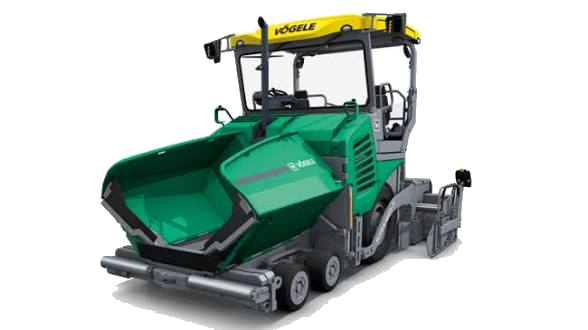
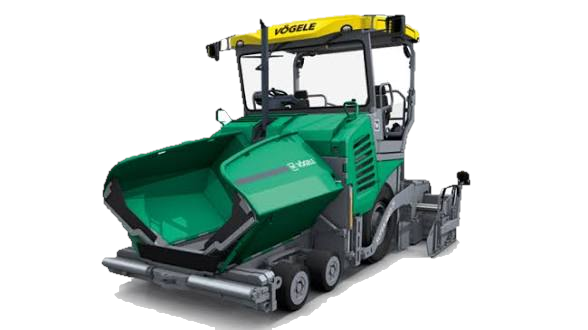
Add files via upload

diff --git a/index.html b/index.html
@@ -1,1 +1,1 @@
-<!doctype html><html lang="sv"><head><meta charset="utf-8"><meta name="viewport" content="width=device-width,initial-scale=1,viewport-fit=cover"><meta name="theme-color" content="#0b1915"><meta name="apple-mobile-web-app-capable" content="yes"><title>PaveTrack</title><link rel="apple-touch-icon" href="icon-180.png"><link rel="icon" type="image/png" href="icon-192.png"><link rel="manifest" href="manifest.webmanifest"><link rel="stylesheet" href="style.css?v=5"></head><body><div id="app"><section id="languageGate" class="language-gate"><div class="language-card"><div class="language-symbol">🌐</div><h1>PAVETRACK</h1><p>Välj språk / Choose language</p><button type="button" class="language-option" data-language="sv">🇸🇪 Svenska</button><button type="button" class="language-option" data-language="en">🇬🇧 English</button></div></section><header><div class="brand"><img class="brand-machine" src="vogele-header-transparent.png" alt="Vögele SUPER 1303 asfaltläggare"><div class="brand-copy"><strong><span class="brand-pave">PAVE</span><span class="brand-track">TRACK</span></strong><small>ASFALT <span>•</span> ARBETSLOGG <span>•</span> MASKINER <span>•</span> LAG</small></div></div><div class="header-actions"><button id="changeLanguage" type="button" class="ghost hidden" aria-label="Byt språk / Change language">🌐 <span id="languageLabel">SV</span></button><button id="logout" class="ghost hidden">Logga ut</button></div></header><main><section id="config" class="panel hidden"><h2>Förbered PaveTrack</h2><p>Firebase är ännu inte konfigurerat. Följ <b>INSTALLATION.md</b> och fyll i <b>firebase-config.js</b>.</p></section><section id="auth" class="panel hidden"><h1>Välkommen till PaveTrack</h1><p>Logga in eller skapa ett konto. Nya konton måste godkännas.</p><div class="tabs"><button id="loginTab" class="active">Logga in</button><button id="registerTab">Skapa konto</button></div><form id="authForm"><label id="nameWrap" class="hidden">Namn<input id="name" autocomplete="name"></label><div id="registerCompanyFields" class="hidden"><label>Kontotyp<select id="accountType"><option value="company">Registrera nytt företag</option><option value="join">Gå med i befintligt företag</option></select></label><div id="companyFields"><label>Företagsnamn<input id="companyName" maxlength="150"></label><label>Organisationsnummer<input id="orgNumber" maxlength="30"></label></div><div id="joinFields" class="hidden"><label>Företags-ID<input id="joinCompanyId" placeholder="Be företagets admin om ID"></label></div></div><label>E-post<input id="email" type="email" autocomplete="email" required></label><label>Lösenord<input id="password" type="password" minlength="6" autocomplete="current-password" required></label><button id="authSubmit" class="primary">Logga in</button></form><p id="authMessage" class="message"></p></section><section id="pending" class="panel hidden"><h2>Kontot väntar på godkännande</h2><p>En administratör behöver godkänna ditt konto innan du kan registrera jobb.</p><p id="pendingName"></p><button id="refreshStatus" class="secondary">Kontrollera status</button></section><section id="dashboard" class="hidden"><div class="topline"><div><small id="greeting">INLOGGAD</small><h1>Arbetsöversikt</h1></div><span id="roleBadge" class="pill"></span></div><nav id="nav"><button data-view="jobs" class="active">Jobb</button><button data-view="history">Historik</button><button data-view="stats">Statistik</button><button data-view="users" id="usersNav" class="hidden">Användare</button><button data-view="companies" id="companiesNav" class="hidden">Företag</button></nav><section id="jobsView" class="view"><div class="metrics"><div class="metric"><small>Jobb idag</small><strong id="todayCount">0</strong></div><div class="metric"><small>Använt idag</small><strong id="todayTons">0 ton</strong></div><div class="metric"><small>Överblivet idag</small><strong id="todayWaste">0 ton</strong></div></div><div class="panel"><div class="paneltitle"><h2 id="formTitle">Nytt asfaltjobb</h2><span class="pill">AUTOSPARAS I MOLNET</span></div><form id="jobForm"><input type="hidden" id="jobId"><div class="cols"><label>Datum<input id="jobDate" type="date" required></label><label>Kund / beställare<input id="customer" required maxlength="150" placeholder="Ex. PEAB"></label></div><div class="cols"><label>Littranummer <span class="optional">(valfritt)</span><input id="littra" maxlength="80" placeholder="Ex. L-1042"></label><label>Arbetsplats <span class="optional">(valfritt)</span><input id="location" maxlength="200" placeholder="Adress eller område"></label></div><div class="cols"><label>Yta (m²)<input id="area" type="number" min="0" max="10000000" step="0.01" inputmode="decimal" required></label><label>Använd asfalt (ton)<input id="used" type="number" min="0" max="100000" step="0.01" inputmode="decimal" required></label></div><label>Arbetslag <span class="optional">(valfritt)</span><select id="jobTeam"><option value="">Inget arbetslag valt</option></select></label><label>Asfalttyp <span class="optional">(valfritt)</span><input id="asphaltType" maxlength="100" placeholder="Ex. ABT 11 70/100"></label><label>Överbliven asfalt (ton)<input id="waste" type="number" min="0" max="100000" step="0.01" inputmode="decimal" required></label><label>Anteckningar <span class="optional">(valfritt)</span><textarea id="notes" maxlength="3000" rows="3" placeholder="Övrig information om jobbet"></textarea></label><div class="actions"><button type="submit" class="primary" id="saveJob">Spara jobb</button><button type="button" class="secondary hidden" id="cancelEdit">Avbryt redigering</button></div></form></div><h2>Senaste jobb</h2><div id="recentJobs" class="stack"></div></section><section id="historyView" class="view hidden"><div class="panel"><h2>Jobbhistorik</h2><div class="cols"><label>Sök kund, littra, plats, arbetslag eller person<input id="search" placeholder="Sök bland jobben"></label><label>Datum<input id="filterDate" type="date"></label></div><div class="actions"><button id="clearFilters" class="secondary">Rensa filter</button><button id="exportCsv" class="secondary">Exportera CSV (Excel)</button></div></div><div id="historyJobs" class="stack"></div></section><section id="statsView" class="view hidden"><div class="panel"><h2>Sammanställning</h2><p id="statsScope"></p><div class="metrics"><div class="metric"><small>Totalt antal jobb</small><strong id="allCount">0</strong></div><div class="metric"><small>Totalt m²</small><strong id="allArea">0</strong></div><div class="metric"><small>Använt, ton</small><strong id="allUsed">0</strong></div><div class="metric"><small>Överblivet, ton</small><strong id="allWaste">0</strong></div></div></div></section><section id="companiesView" class="view hidden"><div class="panel"><h2>Företag</h2><p>Godkänn registreringar och hantera abonnemang.</p><label class="toggle-row"><input type="checkbox" id="billingEnabled"> Kräv betalabonnemang</label><p id="billingInfo" class="message">Gratisläge är aktivt.</p><p class="message">Betalningsintegration är inte aktiverad. Aktivera inte betalningskrav innan en betalningsleverantör är ansluten.</p><div id="companiesList" class="stack"></div></div></section><section id="usersView" class="view hidden"><div class="panel"><h2>Arbetslag</h2><p>Välj ditt arbetslag. Företagets administratör kan lägga till nya lag.</p><label>Mitt arbetslag<select id="myTeam"><option value="">Inget arbetslag</option></select></label><div id="teamAdmin" class="hidden"><form id="teamForm" class="actions"><input id="newTeamName" maxlength="80" placeholder="Ex. Handlag 1" aria-label="Namn på arbetslag"><button class="secondary" type="submit">Lägg till arbetslag</button></form><div id="teamsList"></div></div></div><div class="panel"><h2>Användarhantering</h2><p>Godkänn nya konton. Superadministratören kan även utse administratörer.</p><div id="usersList" class="stack"></div></div></section></section><div id="toast" role="status" aria-live="polite"></div></main><footer>PAVETRACK • BYGGT FÖR ASFALTARBETEN</footer></div><script src="firebase-config.js"></script><script src="owner-config.js"></script><script type="module" src="app.js"></script></body></html>
+<!doctype html><html lang="sv"><head><meta charset="utf-8"><meta name="viewport" content="width=device-width,initial-scale=1,viewport-fit=cover"><meta name="theme-color" content="#0b1915"><meta name="apple-mobile-web-app-capable" content="yes"><title>PaveTrack</title><link rel="apple-touch-icon" href="icon-180.png"><link rel="icon" type="image/png" href="icon-192.png"><link rel="manifest" href="manifest.webmanifest"><link rel="stylesheet" href="style.css?v=5"></head><body><div id="app"><section id="languageGate" class="language-gate"><div class="language-card"><div class="language-symbol">🌐</div><h1>PAVETRACK</h1><p>Välj språk / Choose language</p><button type="button" class="language-option" data-language="sv">🇸🇪 Svenska</button><button type="button" class="language-option" data-language="en">🇬🇧 English</button></div></section><header><div class="brand"><img class="brand-machine" src="vogele-header-transparent.png?v=6" alt="Vögele SUPER 1303 asfaltläggare"><div class="brand-copy"><strong><span class="brand-pave">PAVE</span><span class="brand-track">TRACK</span></strong><small>ASFALT <span>•</span> ARBETSLOGG <span>•</span> MASKINER <span>•</span> LAG</small></div></div><div class="header-actions"><button id="changeLanguage" type="button" class="ghost hidden" aria-label="Byt språk / Change language">🌐 <span id="languageLabel">SV</span></button><button id="logout" class="ghost hidden">Logga ut</button></div></header><main><section id="config" class="panel hidden"><h2>Förbered PaveTrack</h2><p>Firebase är ännu inte konfigurerat. Följ <b>INSTALLATION.md</b> och fyll i <b>firebase-config.js</b>.</p></section><section id="auth" class="panel hidden"><h1>Välkommen till PaveTrack</h1><p>Logga in eller skapa ett konto. Nya konton måste godkännas.</p><div class="tabs"><button id="loginTab" class="active">Logga in</button><button id="registerTab">Skapa konto</button></div><form id="authForm"><label id="nameWrap" class="hidden">Namn<input id="name" autocomplete="name"></label><div id="registerCompanyFields" class="hidden"><label>Kontotyp<select id="accountType"><option value="company">Registrera nytt företag</option><option value="join">Gå med i befintligt företag</option></select></label><div id="companyFields"><label>Företagsnamn<input id="companyName" maxlength="150"></label><label>Organisationsnummer<input id="orgNumber" maxlength="30"></label></div><div id="joinFields" class="hidden"><label>Företags-ID<input id="joinCompanyId" placeholder="Be företagets admin om ID"></label></div></div><label>E-post<input id="email" type="email" autocomplete="email" required></label><label>Lösenord<input id="password" type="password" minlength="6" autocomplete="current-password" required></label><button id="authSubmit" class="primary">Logga in</button></form><p id="authMessage" class="message"></p></section><section id="pending" class="panel hidden"><h2>Kontot väntar på godkännande</h2><p>En administratör behöver godkänna ditt konto innan du kan registrera jobb.</p><p id="pendingName"></p><button id="refreshStatus" class="secondary">Kontrollera status</button></section><section id="dashboard" class="hidden"><div class="topline"><div><small id="greeting">INLOGGAD</small><h1>Arbetsöversikt</h1></div><span id="roleBadge" class="pill"></span></div><nav id="nav"><button data-view="jobs" class="active">Jobb</button><button data-view="history">Historik</button><button data-view="stats">Statistik</button><button data-view="users" id="usersNav" class="hidden">Användare</button><button data-view="companies" id="companiesNav" class="hidden">Företag</button></nav><section id="jobsView" class="view"><div class="metrics"><div class="metric"><small>Jobb idag</small><strong id="todayCount">0</strong></div><div class="metric"><small>Använt idag</small><strong id="todayTons">0 ton</strong></div><div class="metric"><small>Överblivet idag</small><strong id="todayWaste">0 ton</strong></div></div><div class="panel"><div class="paneltitle"><h2 id="formTitle">Nytt asfaltjobb</h2><span class="pill">AUTOSPARAS I MOLNET</span></div><form id="jobForm"><input type="hidden" id="jobId"><div class="cols"><label>Datum<input id="jobDate" type="date" required></label><label>Kund / beställare<input id="customer" required maxlength="150" placeholder="Ex. PEAB"></label></div><div class="cols"><label>Littranummer <span class="optional">(valfritt)</span><input id="littra" maxlength="80" placeholder="Ex. L-1042"></label><label>Arbetsplats <span class="optional">(valfritt)</span><input id="location" maxlength="200" placeholder="Adress eller område"></label></div><div class="cols"><label>Yta (m²)<input id="area" type="number" min="0" max="10000000" step="0.01" inputmode="decimal" required></label><label>Använd asfalt (ton)<input id="used" type="number" min="0" max="100000" step="0.01" inputmode="decimal" required></label></div><label>Arbetslag <span class="optional">(valfritt)</span><select id="jobTeam"><option value="">Inget arbetslag valt</option></select></label><label>Asfalttyp <span class="optional">(valfritt)</span><input id="asphaltType" maxlength="100" placeholder="Ex. ABT 11 70/100"></label><label>Överbliven asfalt (ton)<input id="waste" type="number" min="0" max="100000" step="0.01" inputmode="decimal" required></label><label>Anteckningar <span class="optional">(valfritt)</span><textarea id="notes" maxlength="3000" rows="3" placeholder="Övrig information om jobbet"></textarea></label><div class="actions"><button type="submit" class="primary" id="saveJob">Spara jobb</button><button type="button" class="secondary hidden" id="cancelEdit">Avbryt redigering</button></div></form></div><h2>Senaste jobb</h2><div id="recentJobs" class="stack"></div></section><section id="historyView" class="view hidden"><div class="panel"><h2>Jobbhistorik</h2><div class="cols"><label>Sök kund, littra, plats, arbetslag eller person<input id="search" placeholder="Sök bland jobben"></label><label>Datum<input id="filterDate" type="date"></label></div><div class="actions"><button id="clearFilters" class="secondary">Rensa filter</button><button id="exportCsv" class="secondary">Exportera CSV (Excel)</button></div></div><div id="historyJobs" class="stack"></div></section><section id="statsView" class="view hidden"><div class="panel"><h2>Sammanställning</h2><p id="statsScope"></p><div class="metrics"><div class="metric"><small>Totalt antal jobb</small><strong id="allCount">0</strong></div><div class="metric"><small>Totalt m²</small><strong id="allArea">0</strong></div><div class="metric"><small>Använt, ton</small><strong id="allUsed">0</strong></div><div class="metric"><small>Överblivet, ton</small><strong id="allWaste">0</strong></div></div></div></section><section id="companiesView" class="view hidden"><div class="panel"><h2>Företag</h2><p>Godkänn registreringar och hantera abonnemang.</p><label class="toggle-row"><input type="checkbox" id="billingEnabled"> Kräv betalabonnemang</label><p id="billingInfo" class="message">Gratisläge är aktivt.</p><p class="message">Betalningsintegration är inte aktiverad. Aktivera inte betalningskrav innan en betalningsleverantör är ansluten.</p><div id="companiesList" class="stack"></div></div></section><section id="usersView" class="view hidden"><div class="panel"><h2>Arbetslag</h2><p>Välj ditt arbetslag. Företagets administratör kan lägga till nya lag.</p><label>Mitt arbetslag<select id="myTeam"><option value="">Inget arbetslag</option></select></label><div id="teamAdmin" class="hidden"><form id="teamForm" class="actions"><input id="newTeamName" maxlength="80" placeholder="Ex. Handlag 1" aria-label="Namn på arbetslag"><button class="secondary" type="submit">Lägg till arbetslag</button></form><div id="teamsList"></div></div></div><div class="panel"><h2>Användarhantering</h2><p>Godkänn nya konton. Superadministratören kan även utse administratörer.</p><div id="usersList" class="stack"></div></div></section></section><div id="toast" role="status" aria-live="polite"></div></main><footer>PAVETRACK • BYGGT FÖR ASFALTARBETEN</footer></div><script src="firebase-config.js"></script><script src="owner-config.js"></script><script type="module" src="app.js"></script></body></html>
